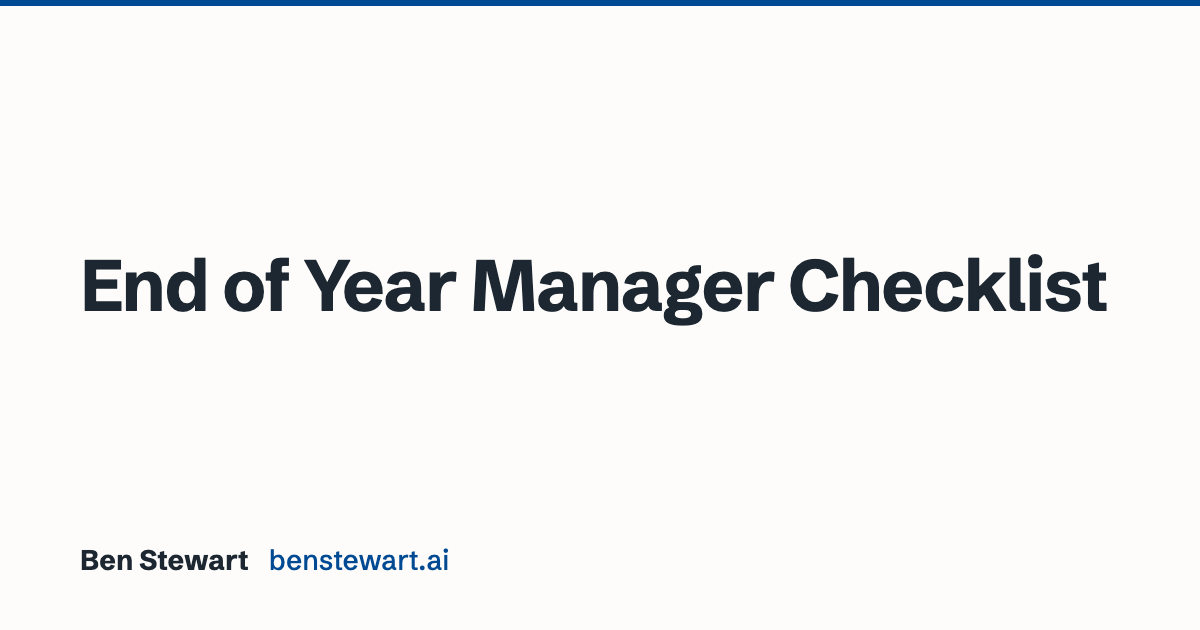
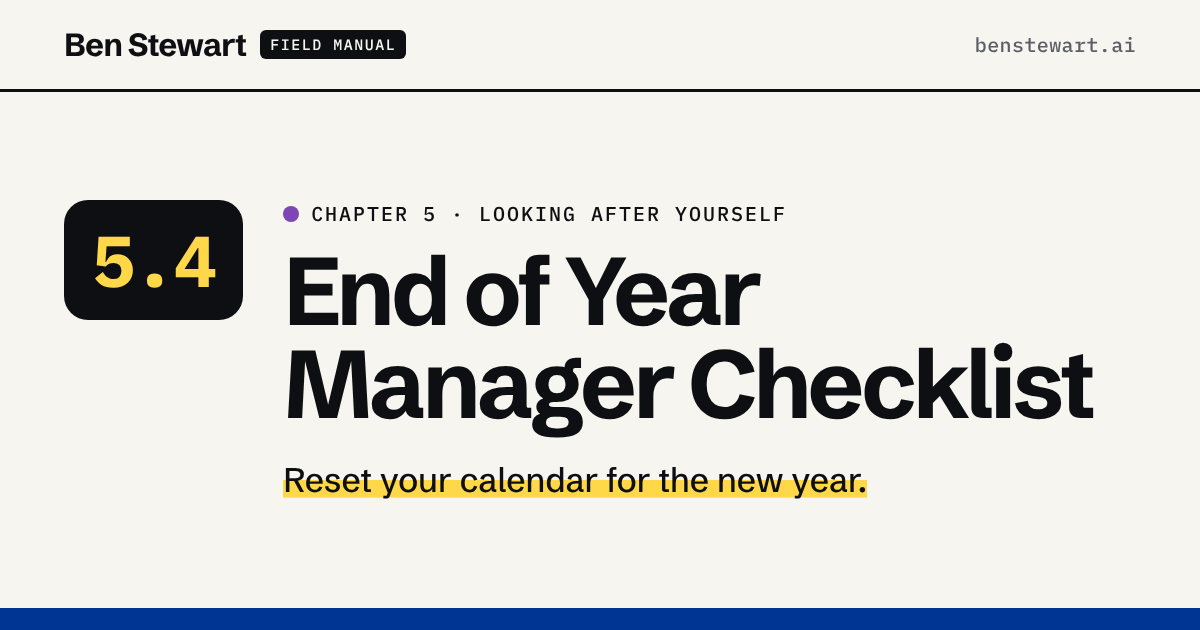
Field manual share cards for every entry
A new 1200x630 template shows the entry number, the chapter, the title
and the post's pull line. npm run og-cards renders every card (and the
site card) straight from lib/posts.ts and lib/manual.ts, so a card can't
disagree with its entry. All 26 posts now point at their own card; the
six old letterboxed cards are gone.

Adds @playwright/test and @axe-core/playwright as dev dependencies (the
card renderer uses Playwright's Chromium; the smoke tests come next).

Claude-Session: https://claude.ai/code/session_01K9g6fUxLj3eQD44xFU3SWy

diff --git a/docs/og-card/template.html b/docs/og-card/template.html
@@ -1,69 +1,115 @@
 <!doctype html>
-<html lang="en">
+<html lang="en-GB">
 <head>
 <meta charset="utf-8">
 <title>Share card template</title>
 <!--
-  1200x630 share card. Light colours are set explicitly on purpose: no
-  prefers-color-scheme rules, so a dark-mode Mac renders the same card.
+  1200x630 Field manual share card. Light colours are set explicitly on
+  purpose: no prefers-color-scheme rules, so a dark-mode Mac renders the same.
 
-  Title card:  template.html?t=<url-encoded title>
-  Image card:  template.html?img=<url-encoded file:// path>   (image letterboxed on paper, no crop)
+  Entry card:  template.html?t=<title>&n=<entry number>&c=<chapter label>&col=<theme colour>&q=<pull line>
+  Site card:   template.html            (no parameters: the default card for pages)
 
-  Render (see CLAUDE.md, Adding a New Post):
-  "/Applications/Google Chrome.app/Contents/MacOS/Google Chrome" --headless --disable-gpu \
-    --hide-scrollbars --window-size=1200,630 --virtual-time-budget=5000 \
-    --screenshot=out.png "file:///ABSOLUTE/PATH/docs/og-card/template.html?t=Post%20title"
+  Every value is URL-encoded. `npm run og-cards` fills them in from the posts
+  and renders every card (scripts/og-cards.mts); pass a slug to do just one.
 -->
 <link rel="preconnect" href="https://fonts.googleapis.com">
 <link rel="preconnect" href="https://fonts.gstatic.com" crossorigin>
-<link href="https://fonts.googleapis.com/css2?family=Schibsted+Grotesk:wght@500;700&display=swap" rel="stylesheet">
+<link href="https://fonts.googleapis.com/css2?family=IBM+Plex+Mono:wght@500;700&family=Schibsted+Grotesk:wght@500;700&display=swap" rel="stylesheet">
 <style>
-  :root { color-scheme: light; }
+  :root {
+    color-scheme: light;
+    --paper: #F6F5F0;
+    --ink: #0E0F12;
+    --faint: #5C5F66;
+    --accent: #003593;
+    --hi: #FFD84A;
+    --mono: 'IBM Plex Mono', ui-monospace, Menlo, monospace;
+  }
   * { box-sizing: border-box; margin: 0; padding: 0; }
-  html, body { width: 1200px; height: 630px; overflow: hidden; background: #FDFCFA; color: #1C2731; }
+  html, body { width: 1200px; height: 630px; overflow: hidden; background: var(--paper); color: var(--ink); }
   body { position: relative; font-family: 'Schibsted Grotesk', 'Helvetica Neue', Arial, sans-serif; }
-  .rule { position: absolute; top: 0; left: 0; width: 1200px; height: 6px; background: #004A93; }
+
+  .bar {
+    position: absolute; inset: 0 0 auto 0; height: 92px; padding: 0 64px;
+    display: flex; align-items: center; justify-content: space-between;
+    border-bottom: 3px solid var(--ink);
+  }
+  .brand { font-size: 32px; font-weight: 700; letter-spacing: -0.03em; display: flex; align-items: center; gap: 14px; }
+  .pill { font-family: var(--mono); font-size: 15px; font-weight: 500; letter-spacing: 0.1em; background: var(--ink); color: var(--paper); border-radius: 6px; padding: 5px 10px; }
+  .site { font-family: var(--mono); font-size: 20px; font-weight: 500; color: var(--faint); letter-spacing: 0.02em; }
+
+  .body { position: absolute; left: 64px; right: 64px; top: 95px; bottom: 22px; display: flex; align-items: center; }
+  .row { display: flex; gap: 40px; align-items: flex-start; width: 100%; }
+  .badge {
+    flex: none; align-self: flex-start;
+    font-family: var(--mono); font-weight: 700; font-size: 72px; line-height: 1; letter-spacing: -0.03em;
+    background: var(--ink); color: var(--hi); border-radius: 24px; padding: 24px 28px;
+  }
+  .main { min-width: 0; flex: 1; display: flex; flex-direction: column; }
+  .chapter { font-family: var(--mono); font-size: 20px; font-weight: 500; letter-spacing: 0.1em; text-transform: uppercase; color: var(--ink); display: flex; align-items: center; gap: 12px; }
+  .dot { width: 16px; height: 16px; border-radius: 50%; background: var(--accent); }
   .title {
-    position: absolute; left: 80px; top: 96px; width: 1040px; height: 380px;
-    display: flex; align-items: center;
-    font-weight: 700; font-size: 72px; line-height: 1.12; letter-spacing: -0.02em; color: #1C2731;
+    margin-top: 18px;
+    font-weight: 700; font-size: 96px; line-height: 0.96; letter-spacing: -0.045em; text-wrap: balance;
   }
-  .byline {
-    position: absolute; left: 80px; bottom: 56px;
-    display: flex; align-items: baseline; gap: 20px;
-    font-size: 28px; line-height: 1; font-weight: 500; color: #1C2731;
+  .quote { margin-top: 28px; max-width: 900px; font-size: 34px; font-weight: 500; line-height: 1.32; letter-spacing: -0.01em; }
+  .quote span {
+    background: linear-gradient(var(--hi), var(--hi)) 0 88% / 100% 42% no-repeat;
+    -webkit-box-decoration-break: clone; box-decoration-break: clone;
   }
-  .byline .name { font-weight: 700; }
-  .byline .site { color: #004A93; }
-  .pic { position: absolute; left: 0; top: 6px; width: 1200px; height: 624px; padding: 24px; display: none; align-items: center; justify-content: center; background: #FDFCFA; }
-  .pic img { width: 100%; height: 100%; object-fit: contain; display: block; }
-  body.image .title, body.image .byline { display: none; }
-  body.image .pic { display: flex; }
+  .foot { position: absolute; left: 0; right: 0; bottom: 0; height: 22px; background: var(--accent); }
+
+  /* The site card: no number, a bigger line, the strapline highlighted. */
+  body.site-card .badge, body.site-card .chapter { display: none; }
+  body.site-card .title { font-size: 112px; margin-top: 0; }
+  body.site-card .quote { font-size: 38px; }
 </style>
 </head>
 <body>
-<div class="rule"></div>
-<div class="title" id="title">Leading engineering teams through AI</div>
-<div class="byline"><span class="name">Ben Stewart</span><span class="site">benstewart.ai</span></div>
-<div class="pic"><img id="pic" alt=""></div>
+<div class="bar">
+  <div class="brand">Ben Stewart <span class="pill">FIELD MANUAL</span></div>
+  <div class="site">benstewart.ai</div>
+</div>
+<div class="body"><div class="row">
+  <div class="badge" id="badge"></div>
+  <div class="main">
+    <div class="chapter"><span class="dot" id="dot"></span><span id="chapter"></span></div>
+    <div class="title" id="title">Field reports from the AI transition.</div>
+    <p class="quote" id="quote"><span>Leading engineering teams through AI, sorted by the problem in front of you.</span></p>
+  </div>
+</div></div>
+<div class="foot"></div>
 <script>
   var q = new URLSearchParams(location.search);
-  var t = q.get('t');
-  var img = q.get('img');
   var title = document.getElementById('title');
-  if (t) title.textContent = t;
-  if (img) {
-    document.body.className = 'image';
-    document.getElementById('pic').src = img;
+  var quote = document.getElementById('quote');
+  if (!q.get('t')) {
+    document.body.className = 'site-card';
   } else {
-    // shrink long titles until they fit the box
-    var size = 72;
-    while (title.scrollHeight > title.clientHeight + 1 && size > 44) {
-      size -= 2;
-      title.style.fontSize = size + 'px';
-    }
+    title.textContent = q.get('t');
+    document.getElementById('badge').textContent = q.get('n') || '';
+    if (!q.get('n')) document.getElementById('badge').style.display = 'none';
+    document.getElementById('chapter').textContent = q.get('c') || '';
+    if (q.get('col')) document.getElementById('dot').style.background = q.get('col');
+    if (q.get('q')) quote.firstElementChild.textContent = q.get('q');
+    else quote.style.display = 'none';
   }
+  // Once the fonts are in, shrink a long title, then a long pull line, until
+  // both fit above the blue foot. The renderer waits for data-ready.
+  function fits() {
+    var lines = Math.round(title.offsetHeight / (parseFloat(getComputedStyle(title).fontSize) * 0.96));
+    return lines <= 3 && document.querySelector('.row').offsetHeight <= 630 - 95 - 22 - 96;
+  }
+  document.fonts.ready.then(function () {
+    if (document.body.className !== 'site-card') {
+      var size = 96;
+      while (!fits() && size > 56) { size -= 2; title.style.fontSize = size + 'px'; }
+      var qs = 34;
+      while (!fits() && qs > 24) { qs -= 1; quote.style.fontSize = qs + 'px'; }
+    }
+    document.body.dataset.ready = '1';
+  });
 </script>
 </body>
 </html>
